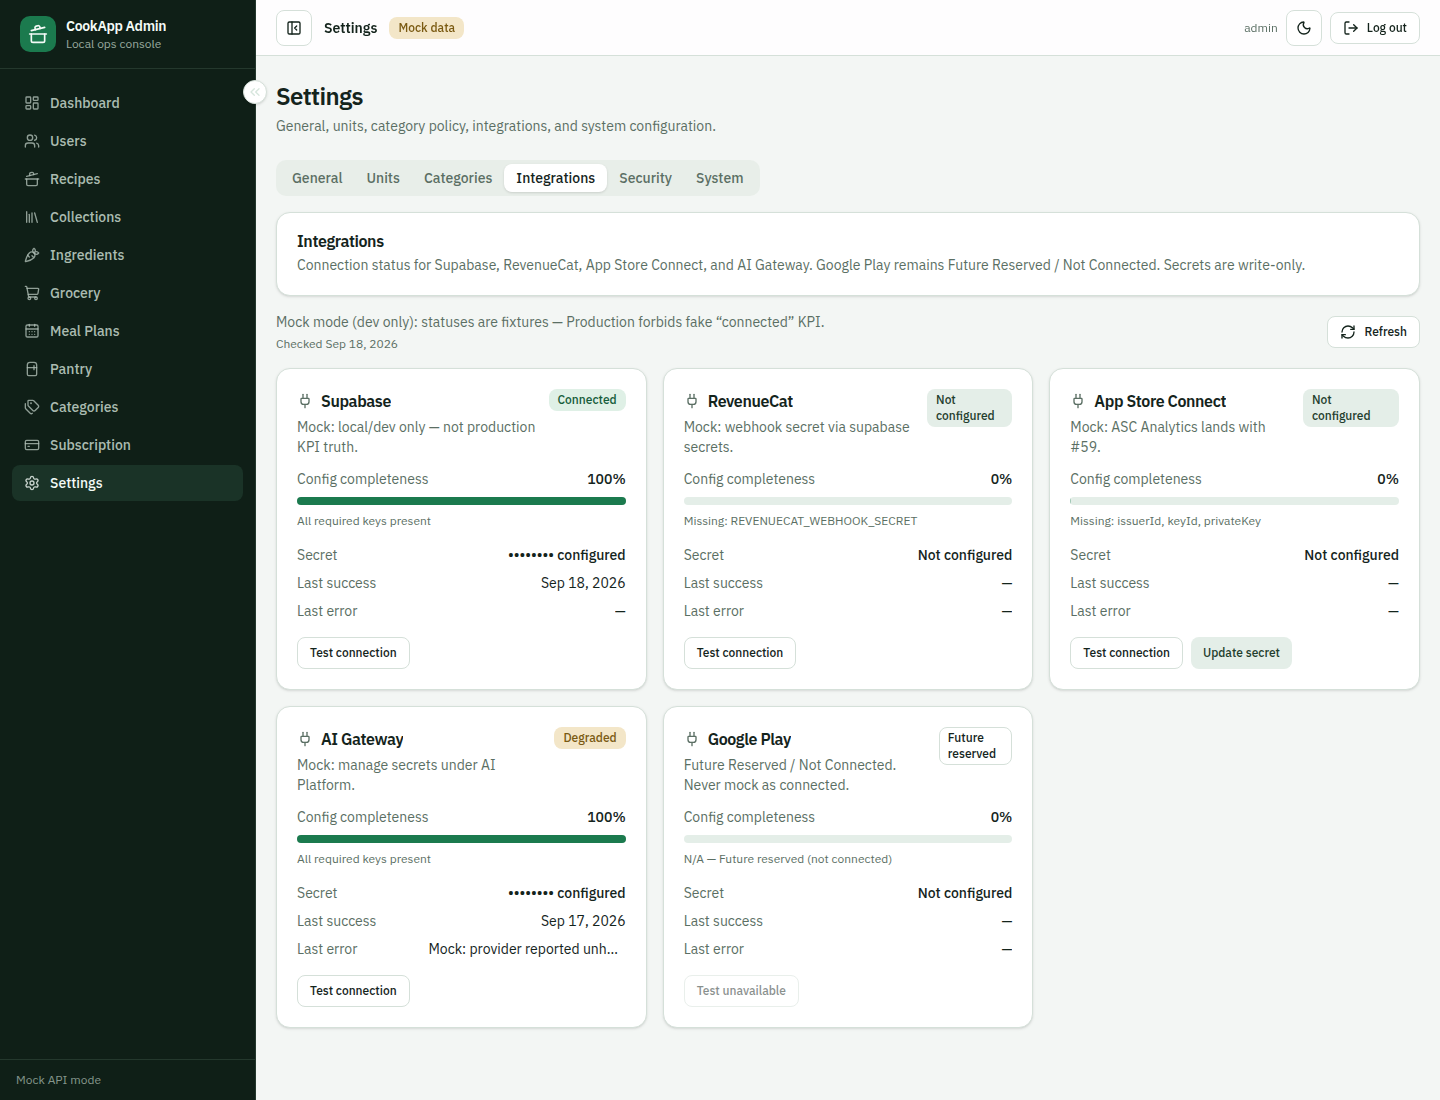
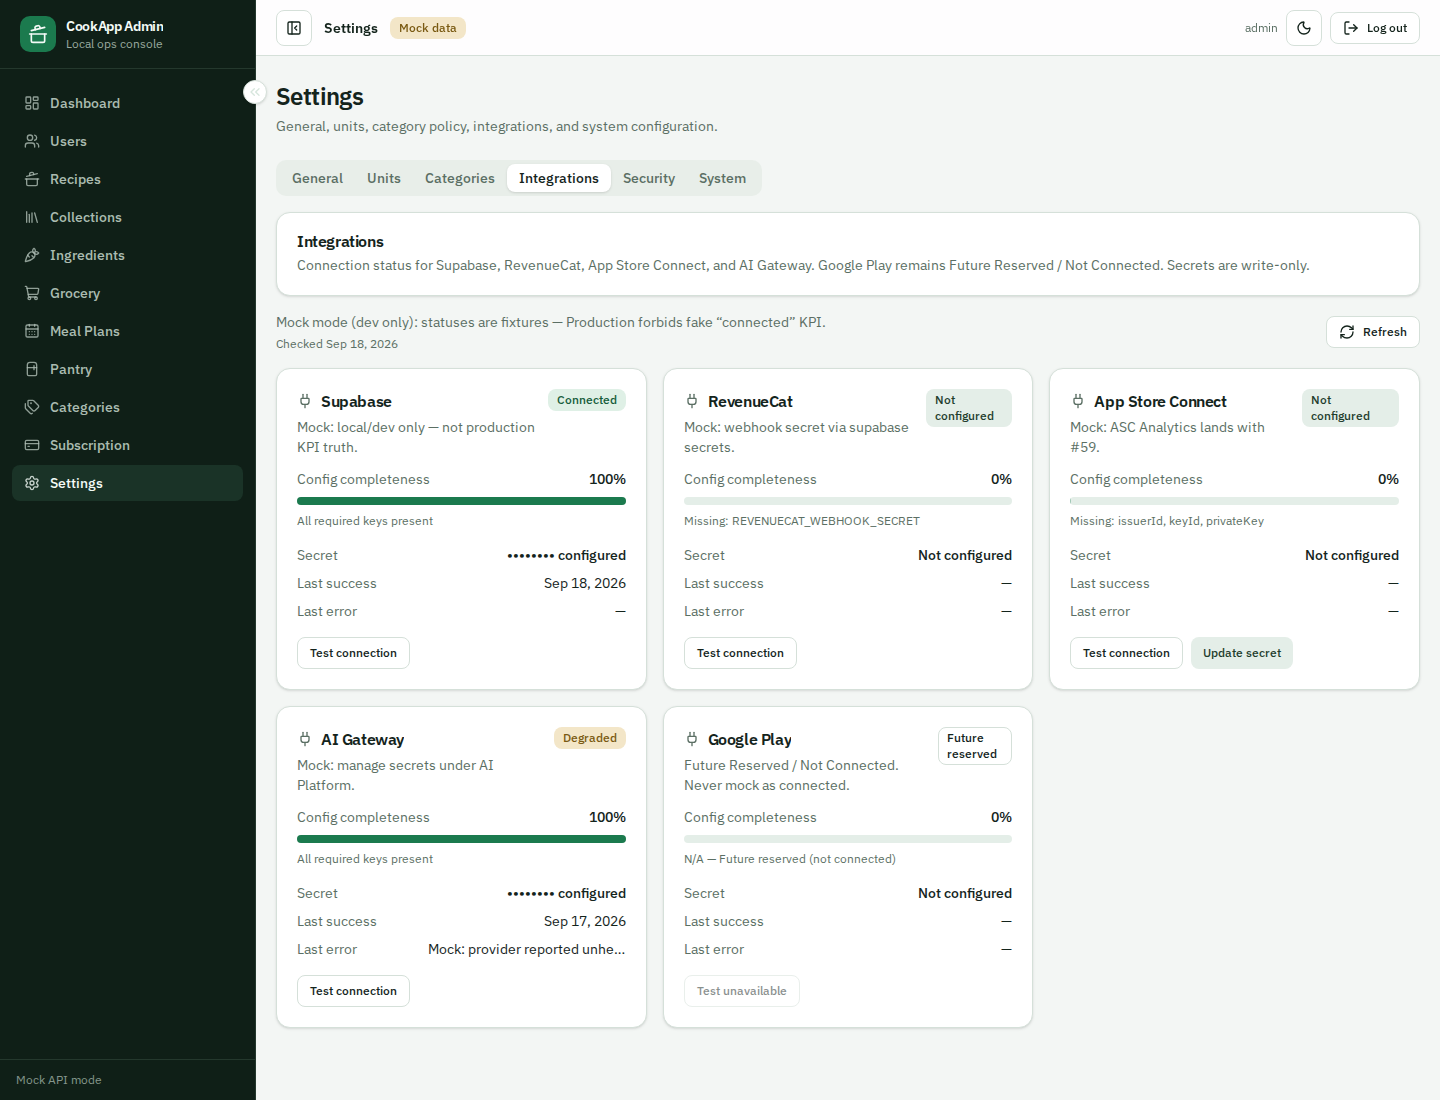
fix(admin): Integrations Refresh loading state + re-QA artifacts (#63)
Wire Integrations Refresh to useAsyncData refreshing (loading + disabled) and re-capture Admin QA artifacts under flat Settings nav after #81.

Follow-up to #63 / #78.

diff --git a/admin/src/pages/settings/integrations-panel.tsx b/admin/src/pages/settings/integrations-panel.tsx
@@ -143,7 +143,10 @@ function IntegrationCard({
 }
 
 export function IntegrationsPanel() {
-  const { data, loading, error, reload } = useAsyncData(() => listIntegrations(), [])
+  const { data, loading, refreshing, error, reload } = useAsyncData(
+    () => listIntegrations(),
+    [],
+  )
   const [testingId, setTestingId] = useState<IntegrationId | null>(null)
   const [testMessage, setTestMessage] = useState<string | null>(null)
   const [secretOpen, setSecretOpen] = useState(false)
@@ -229,7 +232,13 @@ export function IntegrationsPanel() {
             Checked {formatDate(data.checkedAt)}
           </p>
         </div>
-        <Button variant="outline" size="sm" onClick={() => void reload()}>
+        <Button
+          variant="outline"
+          size="sm"
+          loading={refreshing}
+          disabled={refreshing}
+          onClick={() => void reload()}
+        >
           <RefreshCw className="size-3.5" aria-hidden />
           Refresh
         </Button>

diff --git a/.cursor/walkthrough-artifacts/issue63-integrations/VERDICT.md b/.cursor/walkthrough-artifacts/issue63-integrations/VERDICT.md
@@ -1,31 +1,35 @@
-# Admin Design QA — Settings → Integrations (#63)
+# Admin Design QA — Settings → Integrations (#63) — post-merge refresh fix
 
-Screen: **Settings → Integrations**  
+Screen: **Settings → Integrations** (flat Admin nav after #61 / #81 rollback of #64 Stage-4 IA)  
 Code: `admin/src/pages/settings/integrations-panel.tsx`, `admin/src/pages/settings/settings-page.tsx`  
-Evidence: `integrations-desktop.png`, `integrations-mobile.png`, `integrations-after-test.png`  
+Evidence (re-captured after rebase onto `5755163` flat nav):
+- `integrations-desktop.png`
+- `integrations-mobile.png`
+- `integrations-desktop-dark.png`
+- `integrations-secret-dialog.png`
+- `integrations-after-test.png`
+- `integrations-refresh-loading.png`
+- `page-text.txt`
+
 Rules: Global Admin UI Standard · shared Admin kit/tokens · data authenticity (V2 §11)
 
 ```
-VERDICT: PASS
-Screenshot fidelity: N/A (no Pestle/mobile screenshot SoT for Admin; layout matches Global Admin UI Standard + existing Settings shell). Desktop + narrow viewport captured.
-Liquid Glass: N/A (Admin web kit, not iOS Liquid Glass chrome).
-Consistency (shared chrome/tokens): PASS — reuses PageHeader/Tabs/Card/Badge/Button/Progress/Dialog from shared kit; brand green tokens; no page-local palette forks.
-Control states: PASS — LoadingBlock/ErrorState/Retry; Refresh; Test connection loading; Test unavailable disabled for Google Play; Update secret dialog with validation; mock-mode banner; secret masked as •••••••• configured.
-Violations: (none)
-Required redo: (none)
+VERDICT: AWAITING INDEPENDENT RE-QA (implementer must not self-approve)
+Screenshot fidelity: N/A (no Pestle/mobile screenshot SoT for Admin). Desktop + mobile + dark + secret dialog + Refresh loading re-captured under **flat** Settings → Integrations (sidebar: Dashboard…Subscription + Settings; tabs: General/Units/Categories/Integrations/Security/System). No #64 Commerce/Analytics/Operations hierarchy.
+Liquid Glass: N/A (Admin web kit).
+Consistency (shared chrome/tokens): Reuses PageHeader/Tabs/Card/Badge/Button/Progress/Dialog; brand green tokens.
+Control states (fix under review): Refresh wires `refreshing` from `useAsyncData` via `loading={refreshing}` + `disabled={refreshing}` (see `integrations-refresh-loading.png`). Test connection / secret dialog unchanged.
+Violations (prior FAIL addressed): (1) missing #61 flat-nav on branch — rebased onto main `5755163`; (2) hierarchical artifacts — re-captured; (3) Refresh wiring preserved.
+Required redo: Independent UI QA agent must re-run and return PASS|FAIL.
 ```
 
-## Checks
+## Fix delta
 
-1. **IA** — Integrations under Settings tabs (not a duplicate top-level nav).
-2. **Authenticity** — Mock fixtures never mark Google Play Connected; production path uses `admin-integrations` live API.
-3. **Secrets** — Write-only dialog; UI never displays plaintext after save.
-4. **Responsive** — Cards stack on ~390px width; tabs remain reachable.
-5. **States** — connected / not_configured / degraded / future_reserved badges + completeness + last success/error.
+- `useAsyncData` destructures `refreshing`
+- Refresh `Button`: `loading={refreshing}` and `disabled={refreshing}`
+- Artifacts / `page-text.txt` show flat nav post-#61
 
 ## Build / Test
 
-- `deno test --allow-env supabase/functions/_shared/integrations_status_test.ts` — 9/9 pass
 - `npm --prefix admin test` — pass
 - `npm --prefix admin run build` — pass
-- OpenAPI yaml ↔ json ↔ spec.json synced
